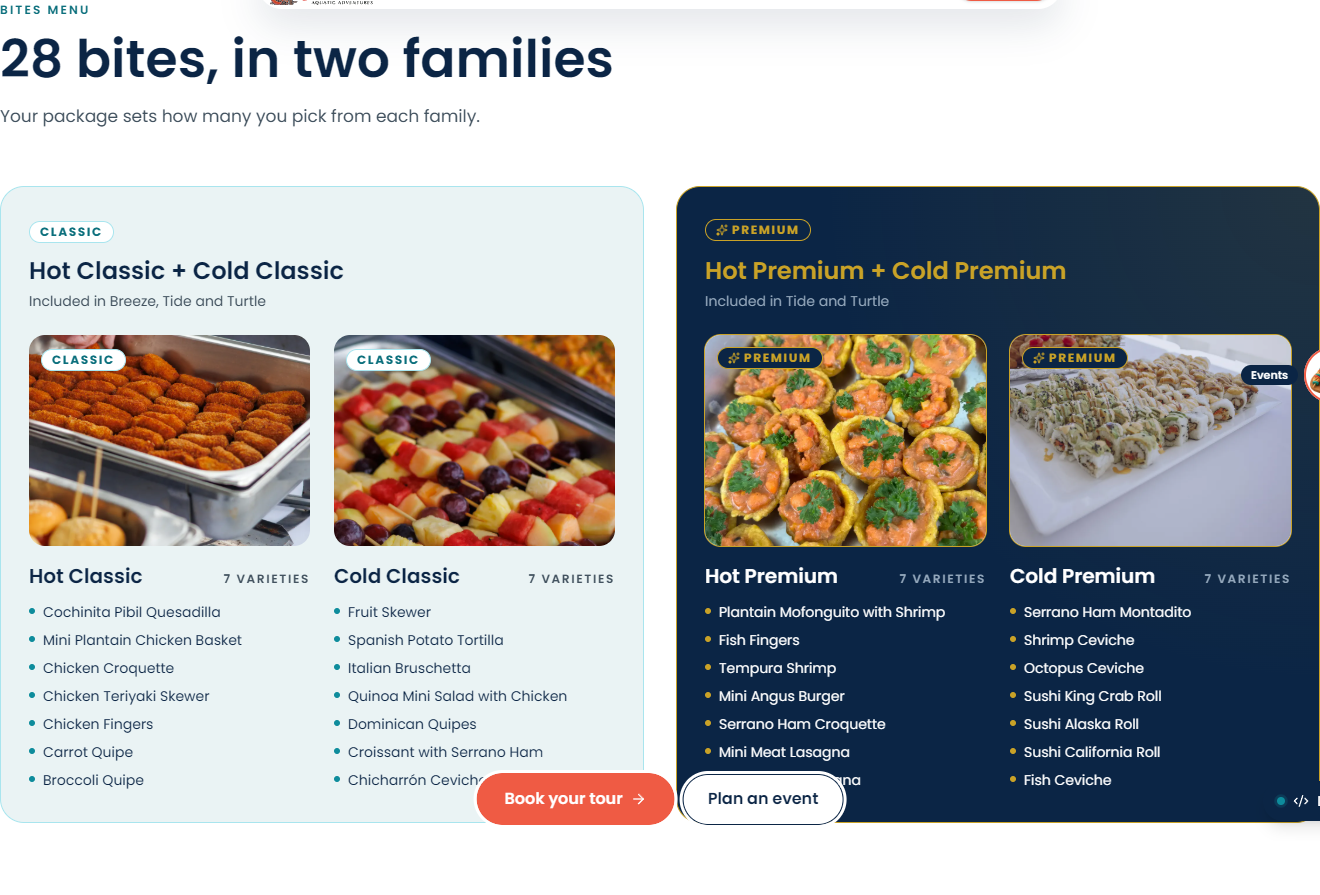
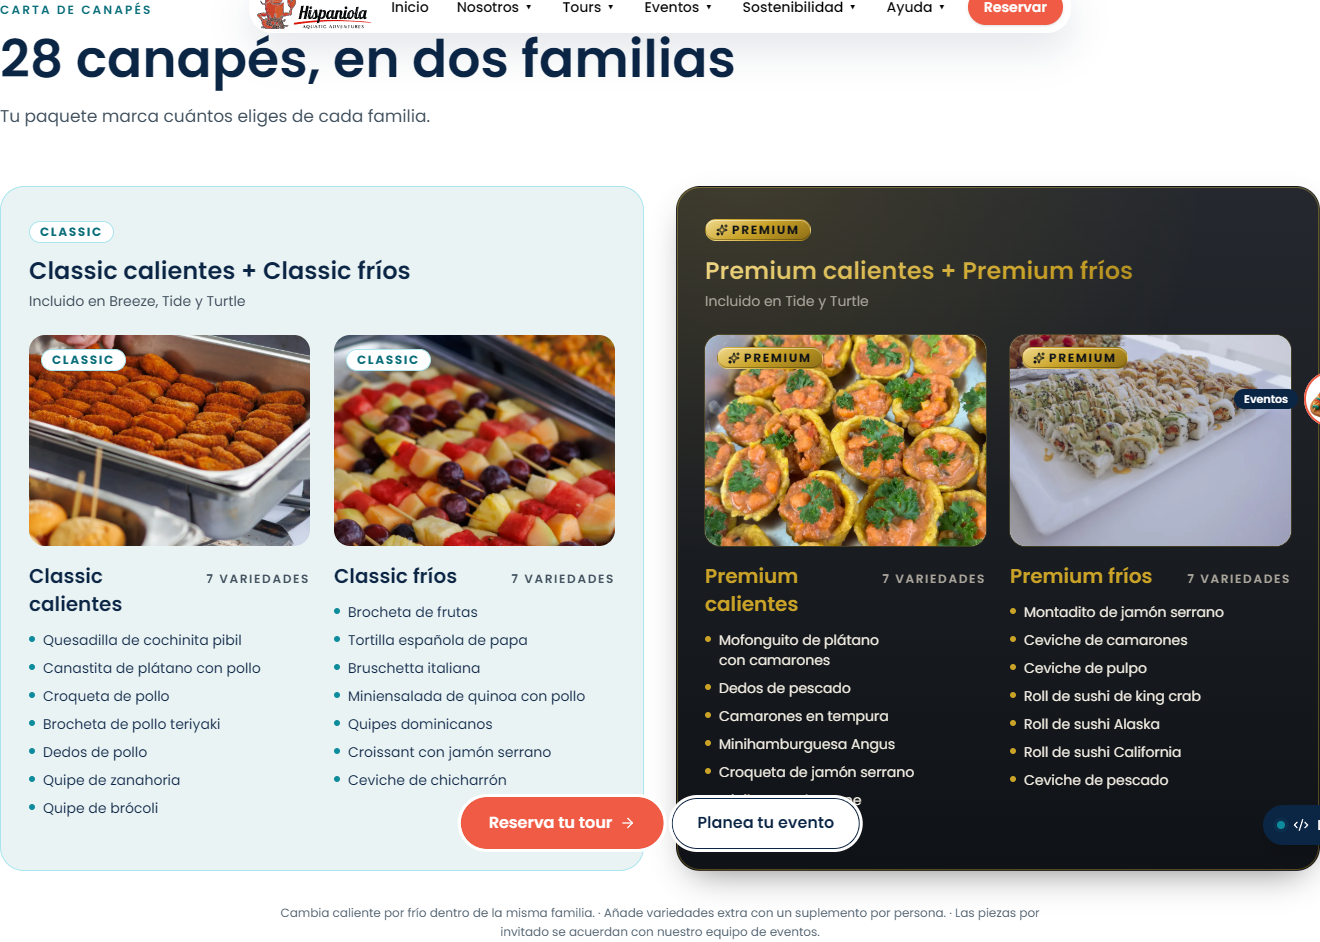
Canapés: textos más anchos y caja Premium con la piel de las cards premium de tours (Samuel, 13/11)
- Cabecera de eventos privados en max-w-5xl (título en 2 líneas a 1440 en
  inglés y en español) y párrafo más ancho; «28 canapés, en dos familias» en
  una sola línea en escritorio.
- Caja Premium: deja el navy y usa .premium-card (casi negro con luz de oro),
  oro plano en los textos (--color-premium-oro / -texto / -texto-suave) y oro
  degradado solo en la etiqueta (.premium-metal) y el título (.premium-cifra).
  Sin tokens ni clases nuevas. Contraste AA medido (mínimo 5,9:1).
- El contador «7 variedades» ya no se parte en dos líneas.

diff --git a/app/src/components/comida-y-bar-v3/carta-canapes-v3.tsx b/app/src/components/comida-y-bar-v3/carta-canapes-v3.tsx
@@ -31,6 +31,12 @@ import { t } from '@/lib/i18n'
 //   3. Cada lista repite la pastilla de su familia sobre la foto.
 // Todo sale de PAQUETES_COMIDA (`bocados`): si cambia un paquete, cambia aquí.
 //
+// [2026-11-13, 5ª vuelta, Samuel] La caja Premium deja el navy y toma la piel
+// de las cards premium de tours (la tarjeta de reserva «Premium US$ 114 /
+// Light US$ 99»): `.premium-card` (casi negro con luz de oro), oro PLANO en
+// los textos y oro DEGRADADO solo en la etiqueta (`.premium-metal`) y el
+// título (`.premium-cifra`). Mismas clases y tokens, ninguno nuevo.
+//
 // [2026-11-12, 3ª vuelta, Samuel: «demasiado sutil»] Cada familia va DENTRO DE
 // SU CAJA: Classic en el tinte aqua (claro, fresco, de marca) y Premium en
 // navy con oro, la piel del Turtle. En móvil el selector sigue mandando: enseña
@@ -55,9 +61,11 @@ function incluidaEn(familia: IdFamilia) {
 }
 
 /** La pastilla de familia (la misma que en las cajas «Or bites»). */
-function Pastilla({ familia }: { familia: IdFamilia }) {
+function Pastilla({ familia, metal = false }: { familia: IdFamilia; metal?: boolean }) {
+  // [2026-11-13] Dentro de la caja Premium, la etiqueta es de oro DEGRADADO
+  // (`.premium-metal`, la del badge de las cards premium de tours).
   return (
-    <span className={`comida3-familia comida3-familia--${familia}`}>
+    <span className={`comida3-familia ${metal ? 'comida3-familia--metal premium-metal' : `comida3-familia--${familia}`}`}>
       {familia === 'premium' ? <Sparkles className="size-3" aria-hidden="true" /> : null}
       {t(CANAPES_TEXTOS.tarjeta[familia])}
     </span>
@@ -81,22 +89,23 @@ function Familia({ f }: { f: FamiliaCanapes }) {
           </div>
         )}
         <div className="absolute left-3 top-3">
-          <Pastilla familia={f.familia} />
+          <Pastilla familia={f.familia} metal={premium} />
         </div>
       </div>
-      {/* [3ª vuelta] Dentro de la caja Premium (navy) el texto pasa a blanco
-          y el secundario a sobre-navy-suave (6,2:1 sobre navy, AA). */}
+      {/* [2026-11-13] Dentro de la caja Premium (piel de las cards premium de
+          tours): títulos en oro PLANO, nombres en --color-premium-texto y lo
+          secundario en --color-premium-texto-suave (AA sobre el casi negro). */}
       <h4
-        className={`mt-4 flex items-baseline justify-between gap-3 font-display text-xl font-semibold ${premium ? 'text-white' : 'text-navy'}`}
+        className={`mt-4 flex items-baseline justify-between gap-3 font-display text-xl font-semibold ${premium ? 'text-premium-oro' : 'text-navy'}`}
       >
         {t(f.nombre)}
         <span
-          className={`text-eyebrow font-semibold uppercase tracking-[0.14em] ${premium ? 'text-sobre-navy-suave' : 'text-navy-sub'}`}
+          className={`shrink-0 whitespace-nowrap text-eyebrow font-semibold uppercase tracking-[0.14em] ${premium ? 'text-premium-texto-suave' : 'text-navy-sub'}`}
         >
           {f.items.length} {t(C.variedades)}
         </span>
       </h4>
-      <ul className={`mt-3 grid gap-2 text-sm ${premium ? 'text-white' : 'text-navy'}`}>
+      <ul className={`mt-3 grid gap-2 text-sm ${premium ? 'text-premium-texto' : 'text-navy'}`}>
         {f.items.map((nombre) => (
           <li key={nombre} className="flex gap-2">
             <span className={`comida3-canapes-punto ${premium ? 'comida3-canapes-punto--premium' : ''}`} aria-hidden="true" />
@@ -115,9 +124,10 @@ export function CartaCanapesV3() {
 
   return (
     <div id="bites" className="ancla-comida comida3-canapes mt-20 lg:mt-24">
-      <div className="max-w-2xl" data-museo-revelar>
+      {/* [2026-11-13, Samuel] El título va en UNA línea en escritorio: contenedor ancho y sin corte desde lg. */}
+      <div className="max-w-4xl" data-museo-revelar>
         <p className="comida3-eyebrow">{t(C.eyebrow)}</p>
-        <h3 className="comida3-h2 mt-3">{t(C.titulo)}</h3>
+        <h3 className="comida3-h2 mt-3 lg:whitespace-nowrap">{t(C.titulo)}</h3>
         <p className="mt-4 text-lead text-navy-sub">{t(C.texto)}</p>
       </div>
 
@@ -149,14 +159,16 @@ export function CartaCanapesV3() {
               id={`${base}-panel-${fam}`}
               role="tabpanel"
               aria-labelledby={`${base}-tab-${fam}`}
-              className={`comida3-canapes-grupo comida3-canapes-grupo--${fam} ${activa === fam ? 'grid' : 'hidden'} lg:grid`}
+              className={`comida3-canapes-grupo comida3-canapes-grupo--${fam} ${fam === 'premium' ? 'premium-card' : ''} ${activa === fam ? 'grid' : 'hidden'} lg:grid`}
             >
               <header>
-                <Pastilla familia={fam} />
-                <p className={`mt-3 font-display text-2xl font-semibold ${fam === 'premium' ? 'text-premium-oro' : 'text-navy'}`}>
+                <Pastilla familia={fam} metal={fam === 'premium'} />
+                {/* El título de la caja Premium, en oro DEGRADADO (`.premium-cifra`, el
+                    de las cifras de las cards premium de tours). */}
+                <p className={`mt-3 font-display text-2xl font-semibold ${fam === 'premium' ? 'premium-cifra' : 'text-navy'}`}>
                   {t(C.composicion).replace('{caliente}', t(listas[0].nombre)).replace('{fria}', t(listas[1].nombre))}
                 </p>
-                <p className={`mt-1 text-sm ${fam === 'premium' ? 'text-sobre-navy-suave' : 'text-navy-sub'}`}>
+                <p className={`mt-1 text-sm ${fam === 'premium' ? 'text-premium-texto-suave' : 'text-navy-sub'}`}>
                   {t(C.incluidoEn).replace('{paquetes}', incluidaEn(fam))}
                 </p>
               </header>

diff --git a/app/src/styles/comida-y-bar-v3.css b/app/src/styles/comida-y-bar-v3.css
@@ -1068,7 +1068,7 @@
   color: var(--color-papel);
 }
 .comida3-canapes-pestana--premium[aria-selected='true'] {
-  background: var(--color-navy);
+  background: var(--color-premium-fondo);
   color: var(--color-premium-oro);
 }
 /* [3ª vuelta, 2026-11-12, Samuel: «demasiado sutil»] Cada familia, en SU
@@ -1087,11 +1087,17 @@
   border-color: var(--color-aqua-claro);
   background: var(--color-aqua-tint);
 }
+/* [2026-11-13] Premium: el fondo, la luz y el filo los pone `.premium-card`
+   (componentes.css, la card premium de tours). Aquí solo se apaga el borde
+   propio de la caja para no dibujar dos filos. */
 .comida3-canapes-grupo--premium {
-  border-color: var(--color-premium-oro);
-  background:
-    radial-gradient(circle at 100% 0%, var(--color-premium-oro-suave), transparent 55%),
-    var(--color-navy);
+  border-color: transparent;
+}
+/* La etiqueta de oro degradado (`.premium-metal`): tinta casi negra encima,
+   como el badge de las cards premium de tours. */
+.comida3-familia--metal {
+  border-color: transparent;
+  color: var(--color-premium-fondo);
 }
 /* La pastilla Classic sobre su propia caja (que tiene el mismo tinte): en papel. */
 .comida3-canapes-grupo--classic .comida3-familia--classic {
@@ -1099,7 +1105,7 @@
 }
 /* Las fotos dentro de la caja Premium, con un filete de oro. */
 .comida3-canapes-grupo--premium .comida3-canapes-foto {
-  box-shadow: 0 0 0 1px var(--color-premium-oro);
+  box-shadow: 0 0 0 1px var(--color-premium-borde);
 }
 @media (width >= 40rem) {
   .comida3-canapes-grupo {

diff --git a/app/src/components/comida-y-bar-v3/eventos-v3.tsx b/app/src/components/comida-y-bar-v3/eventos-v3.tsx
@@ -133,11 +133,12 @@ export function EventosV3() {
     <section id="event-menus" className="ancla-comida relative bg-papel py-20 lg:py-28">
       <div className="mx-auto max-w-contenido px-5 sm:px-10">
         <div className="flex flex-col gap-5 md:flex-row md:items-end md:justify-between" data-museo-revelar>
-          <div className="max-w-2xl">
+          {/* [2026-11-13, Samuel: «columna demasiado estrecha»] Más ancho: título en 2 líneas y párrafo cómodo. */}
+          <div className="max-w-5xl">
             <p className="comida3-eyebrow">{COMIDA_Y_BAR.niveles.eyebrow}</p>
             {/* [2026-11-12] ⚠ Cabecera pendiente de Marketing (CANAPES_TEXTOS). */}
             <h2 className="comida3-h2 mt-3">{t(CANAPES_TEXTOS.cabecera.titulo)}</h2>
-            <p className="mt-4 text-lead text-navy-sub">{t(CANAPES_TEXTOS.cabecera.texto)}</p>
+            <p className="mt-4 max-w-3xl text-lead text-navy-sub">{t(CANAPES_TEXTOS.cabecera.texto)}</p>
           </div>
           <Link to="/events#onboard" className="comida3-boton-claro group shrink-0 self-start md:self-auto">
             {E.cta}
